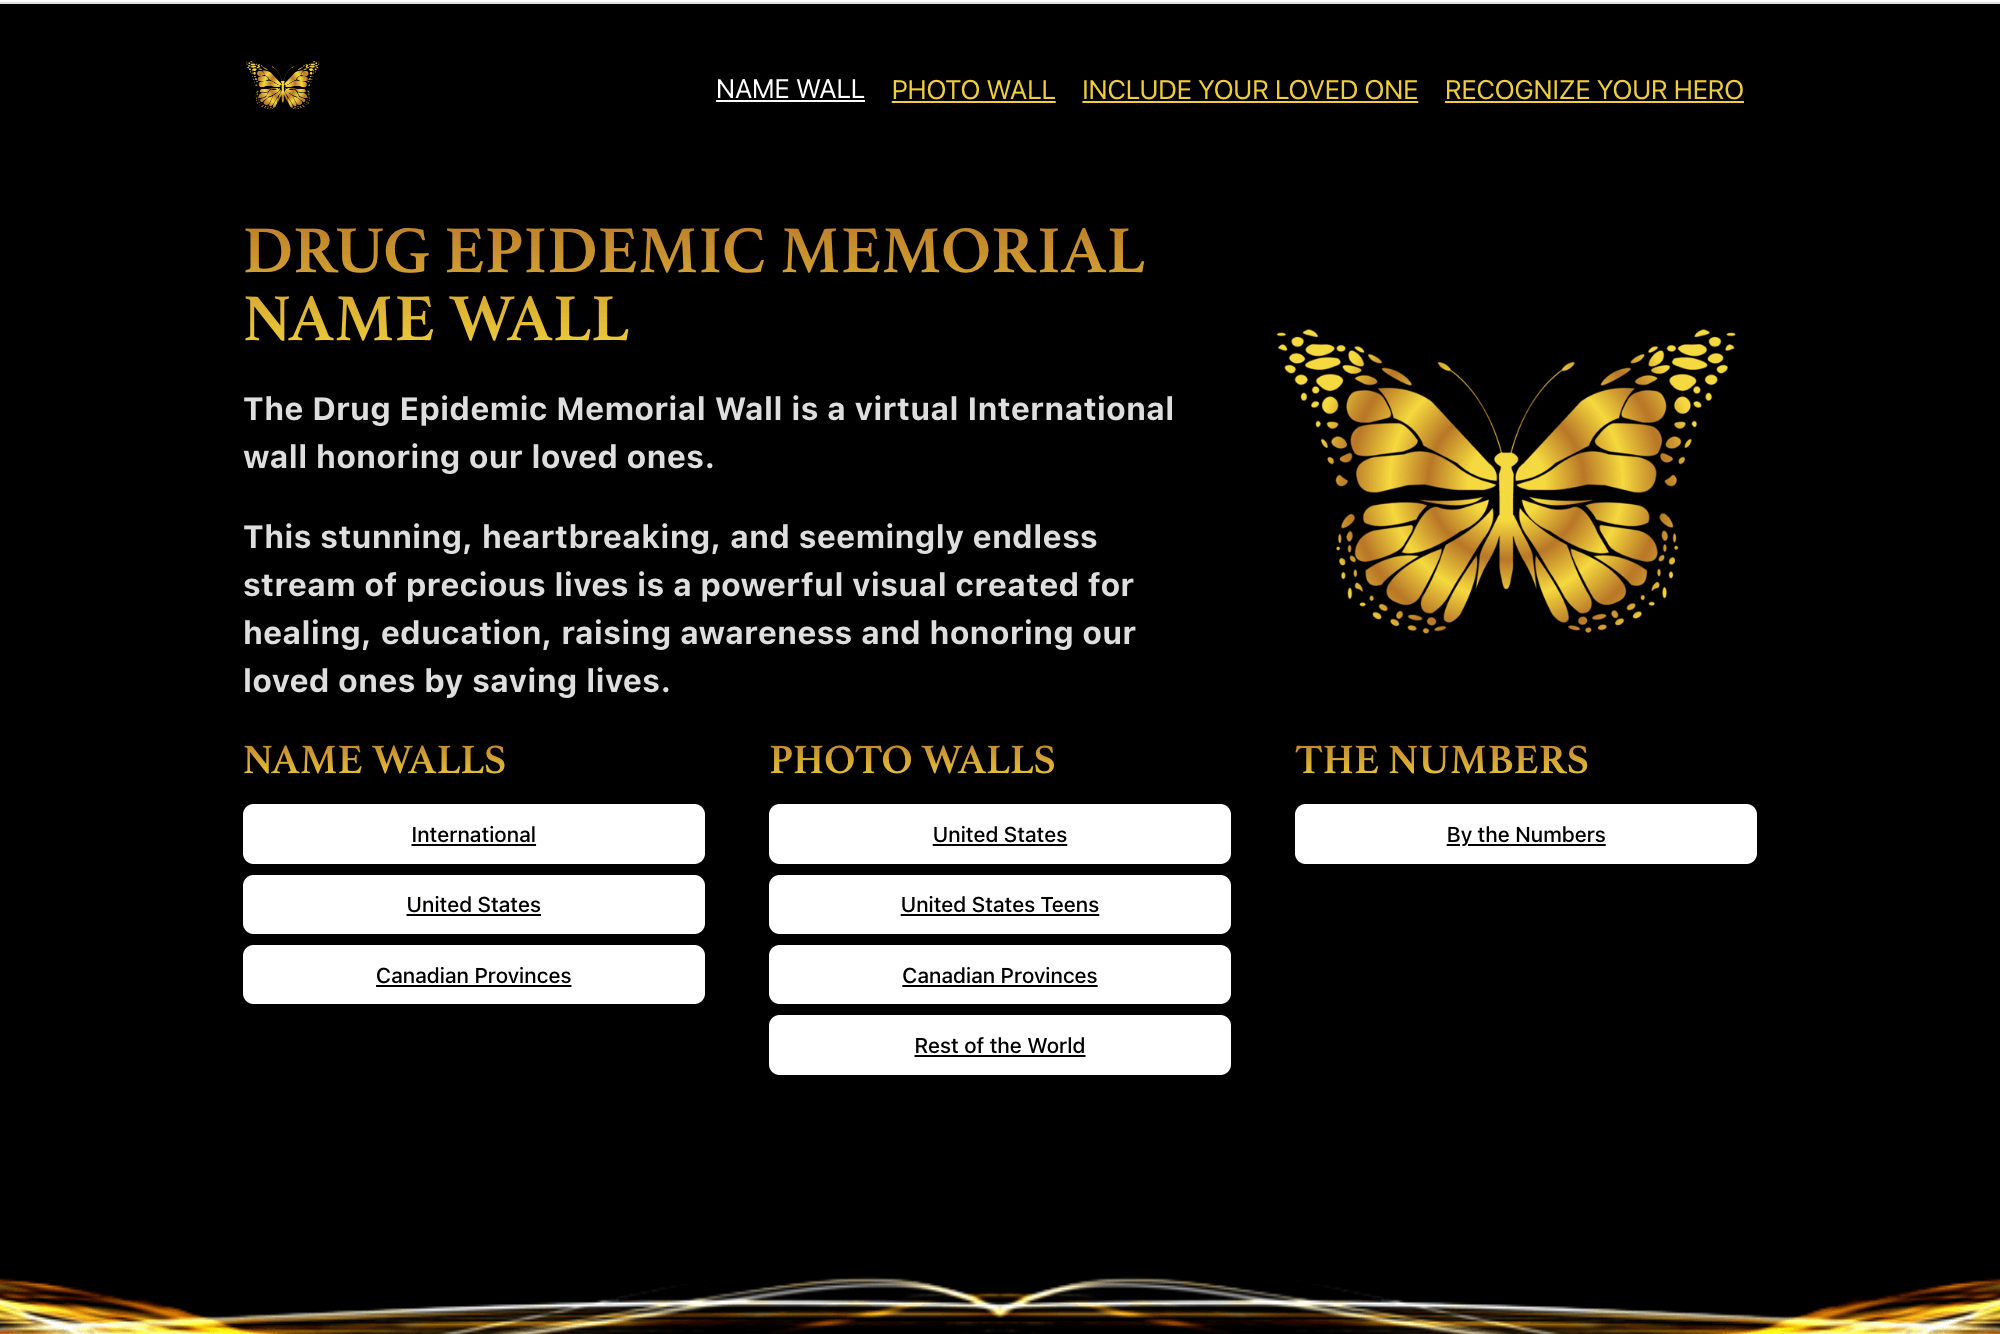
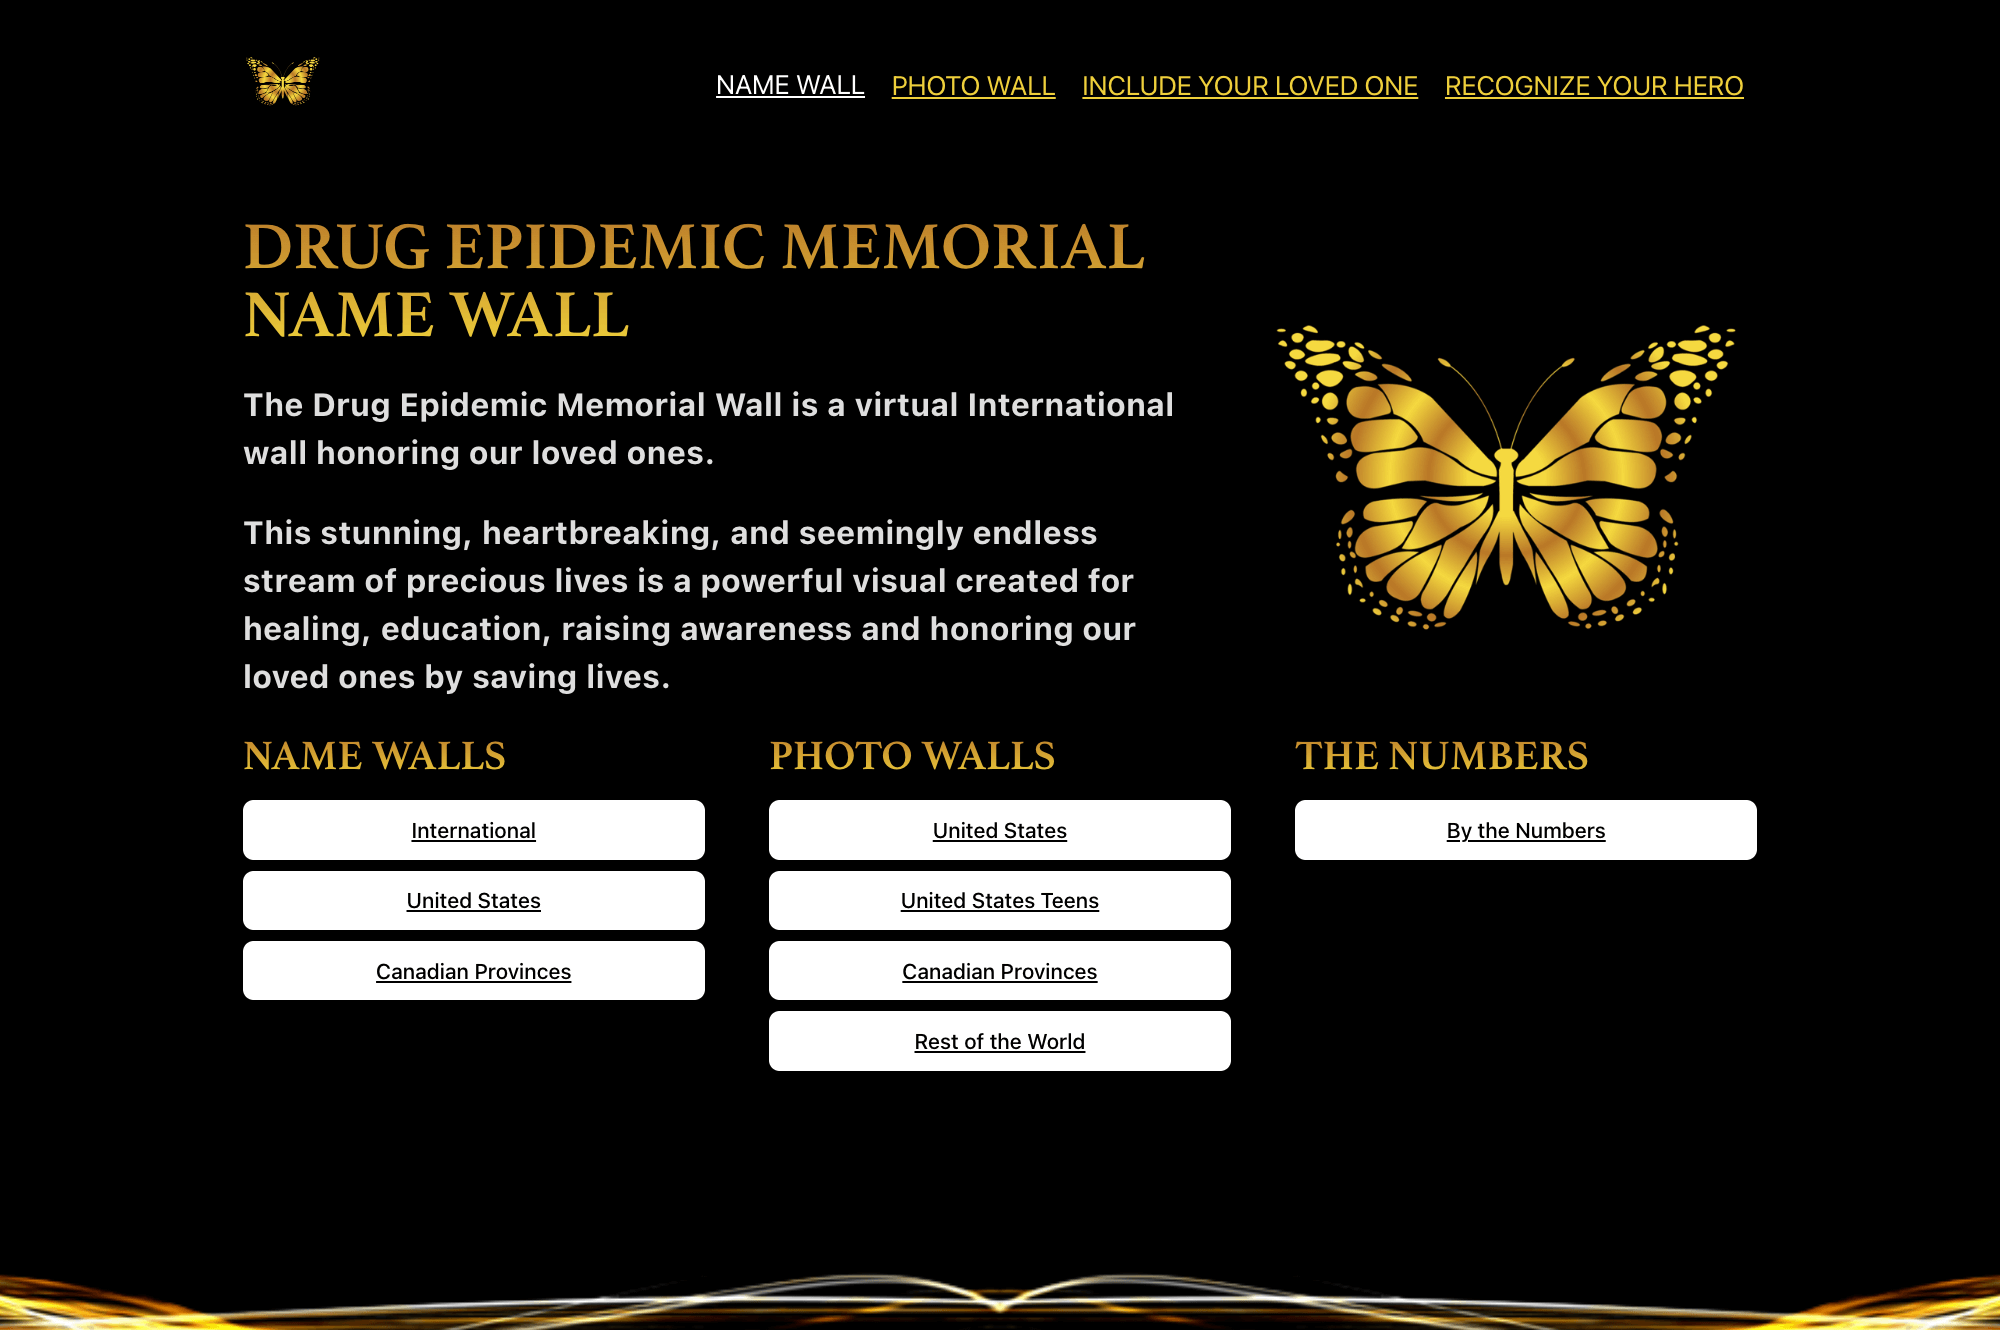
chore: update works

diff --git a/src/pages/work/workLib.tsx b/src/pages/work/workLib.tsx
@@ -1,21 +1,33 @@
 
 import DEM from "../../assets/dem.png";
 import DryEye from "../../assets/dry-eye-july.png";
-import NPExplorer from "../../assets/np-explorer.png";
+import RatClub from "../../assets/rat-club-raffle.png";
+// import NPExplorer from "../../assets/np-explorer.png";
 import Pacer from "../../assets/pacer.png";
 import PropPulse from "../../assets/propeller-pulse.png";
 import Techtonic from "../../assets/techtonic.png";
 
 export const workLibrary = [
+    // {
+    //     title: "National Park Explorer",
+    //     role: "Frontend",
+    //     link: "http://np-explorer.s3-website-us-east-1.amazonaws.com/",
+    //     img: NPExplorer,
+    //     description: (
+    //         <p>
+    //             A modern take on US National Parks, utlizing the National Parks and National Weather APIs, to help plan
+    //             for your next trip
+    //         </p>
+    //     ),
+    // },
     {
-        title: "National Park Explorer",
-        role: "Frontend",
-        link: "http://np-explorer.s3-website-us-east-1.amazonaws.com/",
-        img: NPExplorer,
+        title: "Rat Club Raffle",
+        role: "Fullstack",
+        link: "https://raffle.theratclub.com/",
+        img: RatClub,
         description: (
             <p>
-                A modern take on US National Parks, utlizing the National Parks and National Weather APIs, to help plan
-                for your next trip
+                A platform for creating an sharing raffles
             </p>
         ),
     },
@@ -26,6 +38,13 @@ export const workLibrary = [
         img: DEM,
         description:
             "A digital memorial, built from the ground up, to help victims feel heard and mourn as well as an empowering tool for conferences and rallies.",
+    },
+    {
+        title: "Techtonic Reading List",
+        role: "Fullstack",
+        link: "https://lombardoc4.github.io/TechtonicReadingList/",
+        img: Techtonic,
+        description: "Find authors and their books Mark Hurst interviews on his Techtonic radio show",
     },
     {
         title: "Propeller Pulse",
@@ -48,11 +67,5 @@ export const workLibrary = [
         img: DryEye,
         description: "Dry Eye Disease Awareness Campaign",
     },
-    {
-        title: "Techtonic Reading List",
-        role: "Fullstack",
-        link: "https://lombardoc4.github.io/TechtonicReadingList/",
-        img: Techtonic,
-        description: "Find authors and their books Mark Hurst interviews on his Techtonic radio show",
-    },
+
 ];

diff --git a/src/pages/work/WorkSection.tsx b/src/pages/work/WorkSection.tsx
@@ -27,7 +27,7 @@ export const DetailedWorkSection = (props:  IDetailedWorkSection) => (
 
 export const WorkSection = ({ img,
     title,
-    // role,
+    role,
     link,
     // description,
     // details
@@ -39,7 +39,7 @@ export const WorkSection = ({ img,
                 <WorkSegmentLink target='_blank' to={link}>
                     <div>
                         <h2>{title}</h2>
-                        {/* <p className='pixel'>{role}</p> */}
+                        <p className='pixel'>{role}</p>
                     </div>
                 </WorkSegmentLink>
 

diff --git a/src/pages/work/index.tsx b/src/pages/work/index.tsx
@@ -50,7 +50,7 @@ function WorkPage({ details = false }: { details?: boolean }) {
 
             <TransitionTitle title='Work' className="mt-2" />
 
-            <div style={{display: 'grid', gridTemplateColumns: 'repeat(3, 1fr)', gap: '4rem 2rem', marginBlock: '4rem'}}>
+            <div style={{display: 'grid', gridTemplateColumns: 'repeat(2, 1fr)', gap: '2rem', marginBlock: '4rem'}}>
 
             <AllWorkSections details={details} />
             </div>

diff --git a/src/components/Footer.tsx b/src/components/Footer.tsx
@@ -27,7 +27,7 @@ export const Footer = () => (
                 </Link>
                 <Link
                     target='_blank'
-                    to='https://drive.google.com/file/d/1ewXd_Z0H8X59Kh5vYX1bnnJLVukUa4fW/view?usp=sharing'
+                    to='https://docs.google.com/document/d/18tA5G7fhXbypXJ6ucl2IHRjfIxoow9jUUrUh4_B1IAM/view?usp=sharing'
                     className='roboto d-block'
                 >
                     View CV
